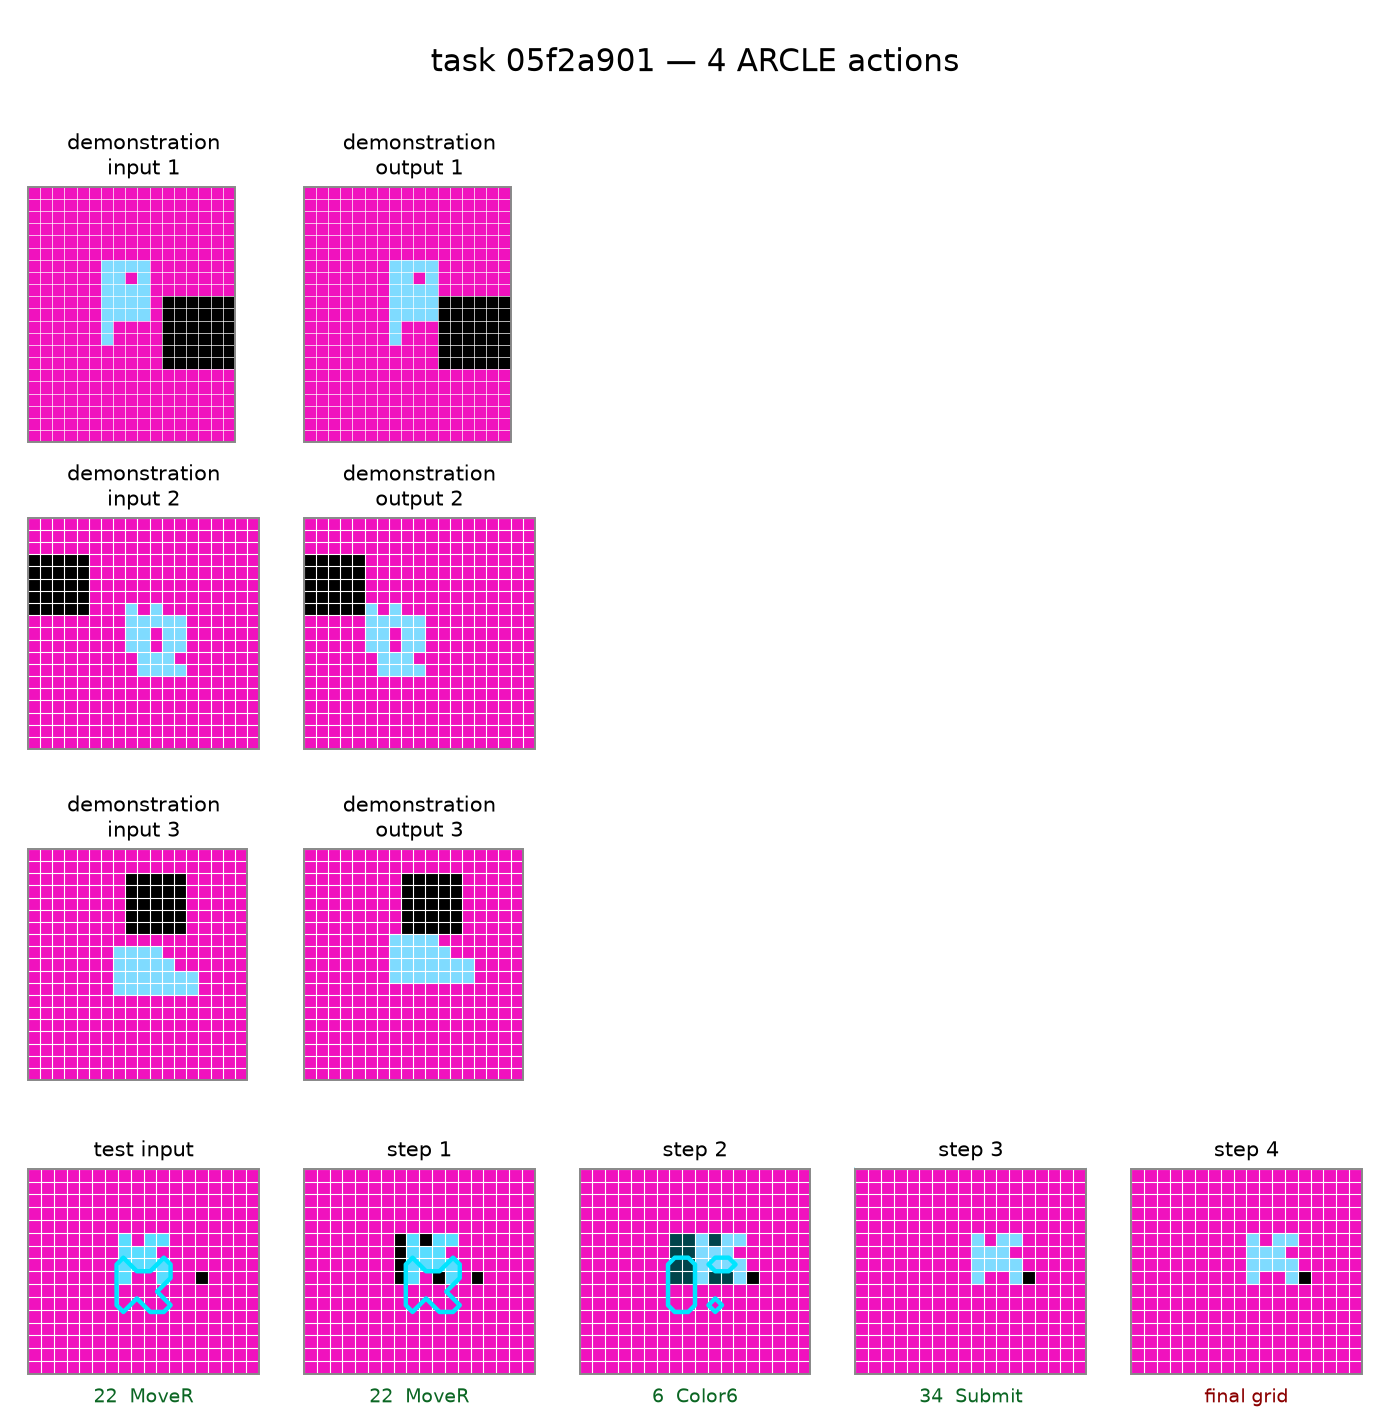
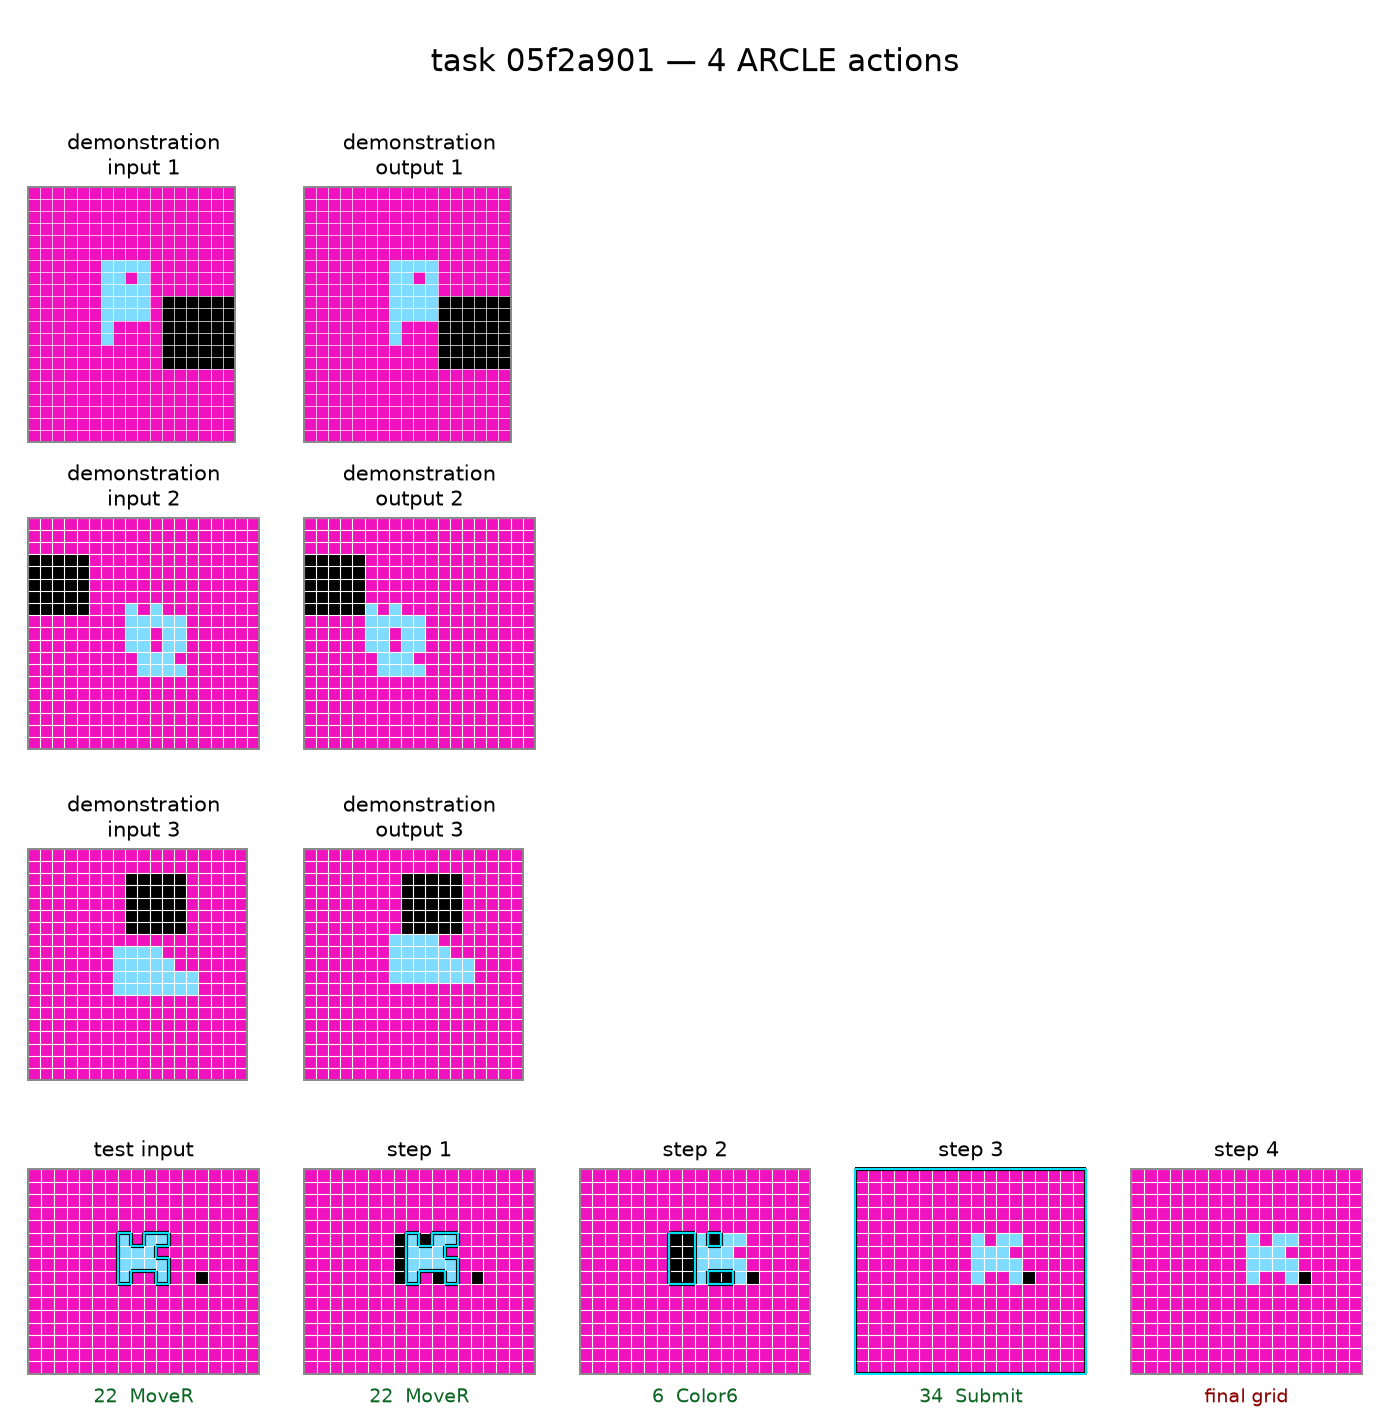
Draw selections on cell edges instead of with contour
contour samples at grid points rather than cell centres and interpolates
between them, so a square selection came out with rounded corners. Walk the
mask and emit the edges that separate it from everything else, the way the GIF
renderer already did. The translucent fill goes with it: with an exact outline
it only recoloured the grid.

Changed region(s): [[0.4644, 0.8633, 0.5263, 0.925], [0.2786, 0.8633, 0.3405, 0.925], [0.0619, 0.8633, 0.1238, 0.925]]

diff --git a/viz/visualize_trajectory.py b/viz/visualize_trajectory.py
@@ -29,6 +29,7 @@ matplotlib.use("Agg")
 import matplotlib.colors as mcolors
 import matplotlib.pyplot as plt
 import numpy as np
+from matplotlib.collections import LineCollection
 
 
 ARC_COLORS = [
@@ -65,16 +66,26 @@ def render_grid(ax, grid, h, w, title="", sel_mask=None, highlight="#00E5FF",
     if sel_mask is not None:
         mask = np.asarray(sel_mask, dtype=bool)[:h, :w]
         if mask.any():
-            # A full-grid selection tinted every panel the same colour and hid
-            # the actual content, so fill only sparse selections and always
-            # trace the boundary, which reads at any coverage.
-            if mask.mean() < 0.5:
-                overlay = np.zeros((*mask.shape, 4))
-                overlay[mask] = mcolors.to_rgba(highlight, alpha=0.30)
-                ax.imshow(overlay, interpolation="nearest", zorder=2)
-            padded = np.pad(mask.astype(float), 1)
-            ax.contour(padded, levels=[0.5], colors=[highlight], linewidths=1.6,
-                       extent=(-1.5, w + 0.5, h + 0.5, -1.5), zorder=5)
+            # Trace the region's border along the actual cell edges. `contour`
+            # was doing this before and was wrong twice over: it samples at grid
+            # points rather than cell centres, and it interpolates, so a square
+            # selection came out with rounded corners. Emitting the edges that
+            # separate the mask from everything else is exact and crisp.
+            segs = []
+            for r, c in zip(*np.nonzero(mask)):
+                if r == 0 or not mask[r - 1, c]:
+                    segs.append([(c - 0.5, r - 0.5), (c + 0.5, r - 0.5)])
+                if r == h - 1 or not mask[r + 1, c]:
+                    segs.append([(c - 0.5, r + 0.5), (c + 0.5, r + 0.5)])
+                if c == 0 or not mask[r, c - 1]:
+                    segs.append([(c - 0.5, r - 0.5), (c - 0.5, r + 0.5)])
+                if c == w - 1 or not mask[r, c + 1]:
+                    segs.append([(c + 0.5, r - 0.5), (c + 0.5, r + 0.5)])
+            # a dark casing under the bright edge, so the outline survives on
+            # both a black grid and a white one
+            for col, lw_, z in (("#101010", 1.5, 5), (highlight, 0.7, 6)):
+                ax.add_collection(LineCollection(segs, colors=col,
+                                                 linewidths=lw_, zorder=z))
 
     if box:
         BH, BW = box
